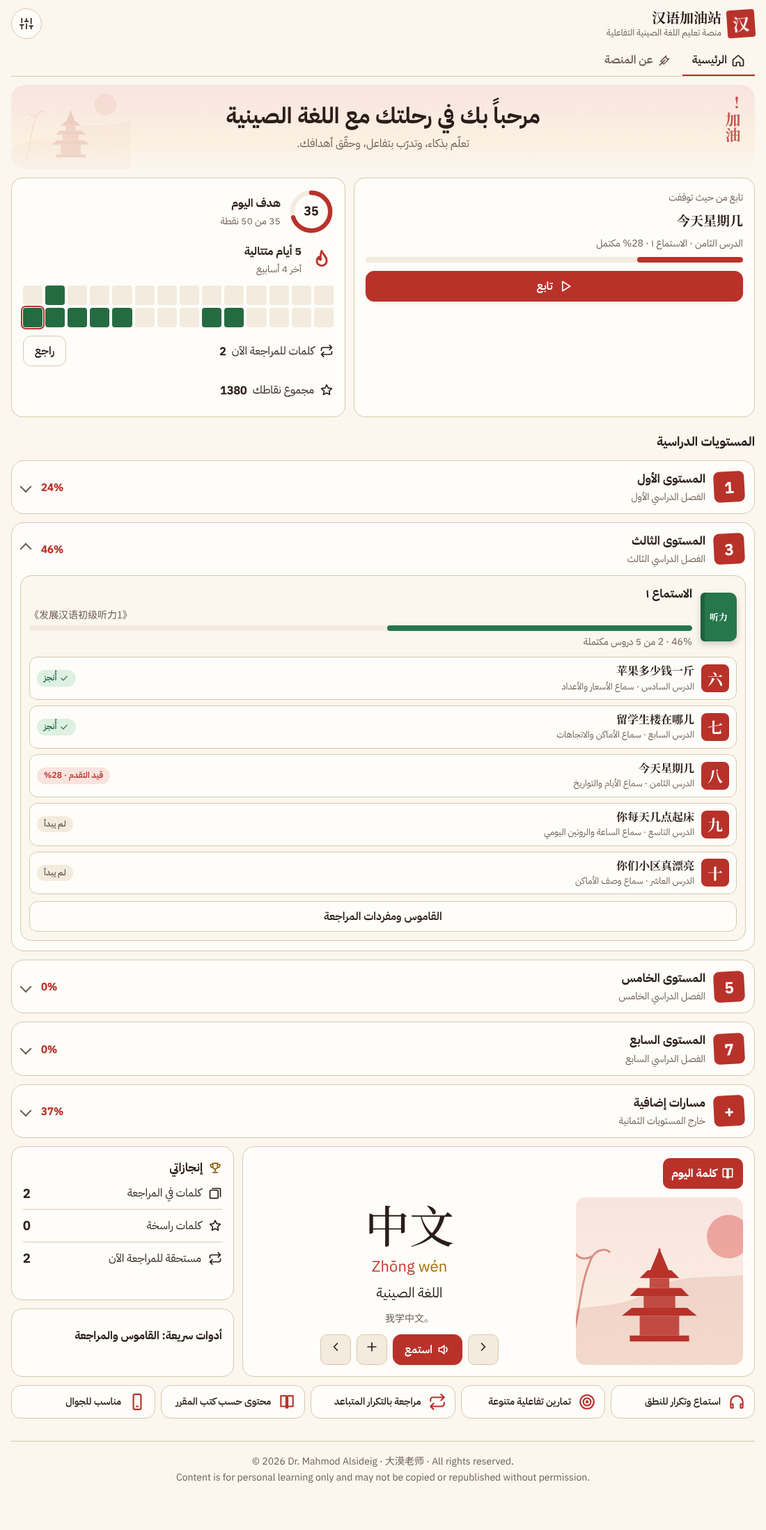
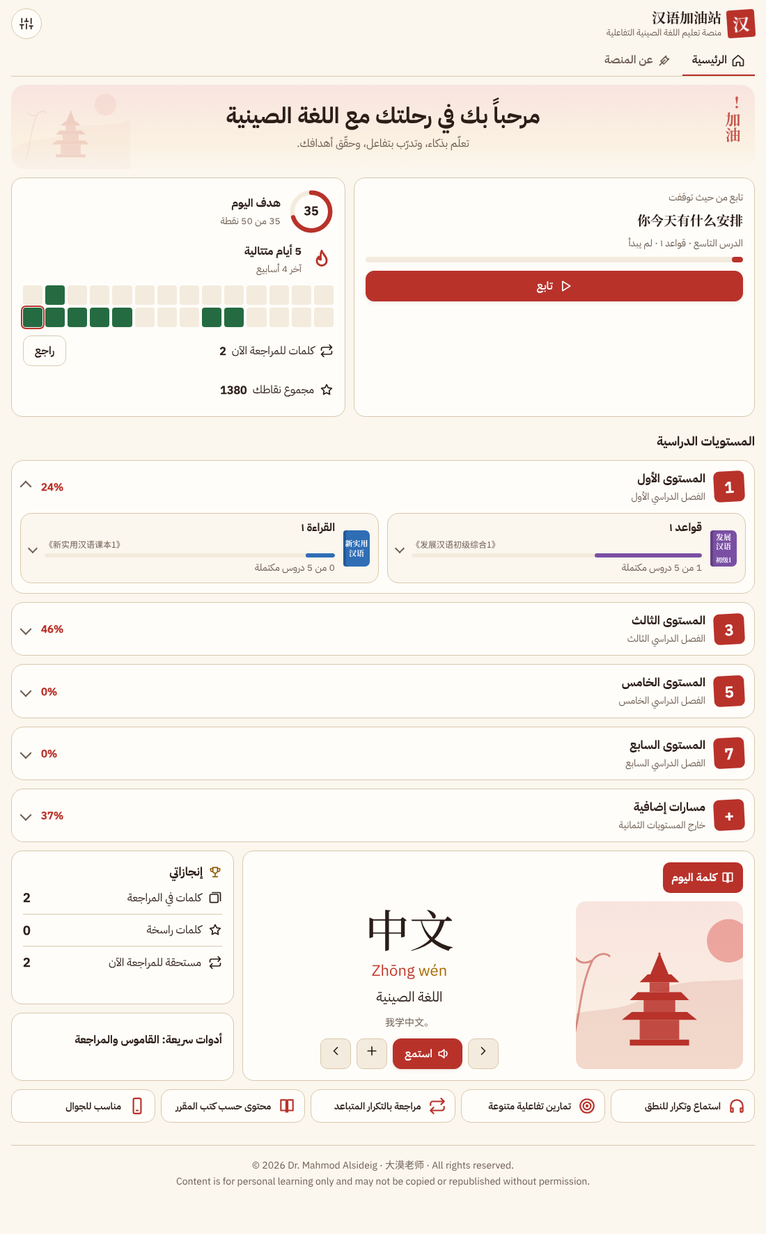
Hub density: lessons are shown only inside an expanded course (three tiers, accordion)
Level (open only for the last lesson's level) shows only compact course cards; tapping a course expands its lessons inline and closes
the other course of the same level; lesson rows are one line (number, Chinese title, ellipsized Arabic subtitle, state badge).
The open course is kept for the visit only (nothing new in storage). Continue card, no locking, URLs and keys unchanged.
t10.js: tier tests (no lesson visible on a fresh visit, accordion per level, compact rows, continue card on top); t8.js adapted;
hubt/tg.js and th.js re-run. New 360px screenshots.

Claude-Session: https://claude.ai/code/session_01Y3ehy95n2BwDU97HGsHF3Y

diff --git a/index.html b/index.html
@@ -109,18 +109,26 @@ details.lvl[open]>summary::after{transform:rotate(-135deg)}
 .lvt{flex:1;display:grid}.lvt b{font-size:17px}.pc{font:700 15px var(--font-py);color:var(--accent)}
 .lvb{display:grid;gap:12px;padding:0 12px 14px}
 @media(min-width:900px){.lvb{grid-template-columns:repeat(auto-fit,minmax(340px,1fr))}}
-.cb{display:grid;gap:10px;background:var(--bg);border:1px solid var(--line);border-radius:16px;padding:12px}
-.cb .r1{display:flex;gap:12px;align-items:center}.cb .ci{display:grid;gap:4px;flex:1;min-width:0}.cb .ci b{font-size:17px}
-.cb .cover{width:52px;height:70px;font-size:13px}
+.cb{background:var(--bg);border:1px solid var(--line);border-radius:16px;overflow:hidden}
+.cb.open{border-color:var(--accent)}
+.cbh{display:flex;gap:12px;align-items:center;width:100%;min-height:72px;padding:10px 12px;background:none;border:0;text-align:start;cursor:pointer}
+.cbh .cover{flex:none;width:38px;height:52px;font-size:11px;border-radius:4px 7px 7px 4px;box-shadow:inset 4px 0 0 rgba(0,0,0,.18)}
+.cbh .ci{display:grid;gap:3px;flex:1;min-width:0}.cbh .ci b{font-size:16px;line-height:1.35}
+.cbh .bk{overflow:hidden;text-overflow:ellipsis;white-space:nowrap;max-width:100%;font-size:12px}
+.cbh .bar{display:block;height:6px}
+.chev{flex:none;width:10px;height:10px;border:solid var(--muted);border-width:0 2px 2px 0;transform:rotate(45deg);transition:transform .15s}
+.cb.open .chev{transform:rotate(-135deg)}
+.cbody{display:grid;gap:8px;padding:0 10px 12px}
 .lrows{display:grid;gap:8px}
-.lrow{display:grid;grid-template-columns:40px 1fr auto;gap:10px;align-items:center;text-decoration:none;color:inherit;background:var(--surface);border:1px solid var(--line);border-radius:12px;padding:8px 10px;min-height:56px}
-.lrow .n{width:40px;height:40px;border-radius:8px;background:var(--seal);color:var(--seal-fg);display:grid;place-items:center;font:700 22px var(--font-han)}
-.lrow .lt{display:grid;min-width:0;justify-items:start}.lrow .lt b{font-size:16px;line-height:1.4}.lrow .lt .mut{font-size:13px}
+.lrow{display:grid;grid-template-columns:34px 1fr auto;gap:10px;align-items:center;text-decoration:none;color:inherit;background:var(--surface);border:1px solid var(--line);border-radius:12px;padding:6px 10px;min-height:52px}
+.lrow .n{width:34px;height:34px;border-radius:7px;background:var(--seal);color:var(--seal-fg);display:grid;place-items:center;font:700 19px var(--font-han)}
+.lrow .lt{display:grid;min-width:0;justify-items:start}
+.lrow .lt b{display:block;max-width:100%;overflow:hidden;text-overflow:ellipsis;white-space:nowrap;font-size:15px;line-height:1.4}
+.lrow .lt .sub{display:block;max-width:100%;overflow:hidden;text-overflow:ellipsis;white-space:nowrap;font-size:12px;color:var(--muted)}
 .st{display:inline-flex;align-items:center;gap:4px;font-size:12px;font-weight:600;border-radius:999px;padding:2px 10px;white-space:nowrap;background:var(--surface2);color:var(--muted)}
 .st .ic{width:14px;height:14px}.st.prog{background:var(--accent-soft);color:var(--accent)}.st.done{background:var(--good-soft);color:var(--good)}
 .course .st{margin-top:4px}
 details.tools>summary{cursor:pointer;min-height:44px;display:flex;align-items:center}
-@media(max-width:420px){.lrow{grid-template-columns:36px 1fr}.lrow .st{grid-column:2;justify-self:start}.lrow .n{width:36px;height:36px;font-size:20px}}
 </style>
 <link rel="stylesheet" href="zh-ui.css">
 <script src="zh-ui.js" defer></script>
@@ -210,7 +218,7 @@ function lessonProg(l){
   return {pct:pct,st:pct>=DONE_AT?'done':(started?'prog':'new'),xp:xp};
 }
 function avgPct(ls){if(!ls.length)return 0;var t=0;ls.forEach(function(l){t+=lessonProg(l).pct});return Math.round(t/ls.length)}
-function badge(p){return p.st==='done'?'<span class="st done">'+ic('check')+'أُنجز</span>':p.st==='prog'?'<span class="st prog">قيد التقدم · '+p.pct+'%</span>':'<span class="st new">لم يبدأ</span>'}
+function badge(p,compact){return p.st==='done'?'<span class="st done">'+ic('check')+'أُنجز</span>':p.st==='prog'?'<span class="st prog"'+(compact?' title="قيد التقدم" aria-label="قيد التقدم '+p.pct+'%"':'')+'>'+(compact?p.pct+'%':'قيد التقدم · '+p.pct+'%')+'</span>':'<span class="st new">لم يبدأ</span>'}
 function totalXp(){var t=0,seen={};Object.keys(LB).forEach(function(id){LB[id].forEach(function(l){if(!seen[l.key]){seen[l.key]=1;t+=lessonProg(l).xp}})});return t}
 function findLesson(file){var order=Object.keys(LB);for(var i=0;i<order.length;i++){var ls=LB[order[i]];for(var j=0;j<ls.length;j++)if(ls[j].url===file)return {c:order[i],l:ls[j],i:j}}return null}
 /* the "continue" target: the last lesson opened (zh-hub-v1.lastLesson, written by the lessons and by the hub), shared lessons go to the
@@ -239,18 +247,23 @@ function dashboard(){
    '<div class="dg2"><span>'+ic('star')+'مجموع نقاطك <b>'+totalXp()+'</b></span></div></div></section>';
 }
 function tparts(t){var k=t.indexOf(' · ');return k<0?{ar:'',zh:t}:{ar:t.slice(0,k),zh:t.slice(k+3)}}
-function lrow(id,l,i){var p=lessonProg(l),t=tparts(l.t);return '<a class="lrow" href="'+l.url+'" target="_blank" rel="noopener" data-lesson="'+((id==='gram'||id==='fl')?i:-1)+'" data-file="'+l.url+'"><span class="n">'+l.n+'</span><span class="lt"><b class="han ltr" lang="zh-CN">'+esc(t.zh)+'</b><span class="mut">'+t.ar+' · '+l.d+'</span></span>'+badge(p)+'</a>'}
-function courseBlock(id){
-  var m=MATS.filter(function(x){return x.id===id})[0],ls=LB[id],pct=avgPct(ls),col='var(--c'+m.color+')',dn=ls.filter(function(l){return lessonProg(l).st==='done'}).length;
-  return '<div class="cb" data-course="'+id+'"><div class="r1"><div class="cover han" lang="zh-CN" style="background:'+col+'">'+m.cv+'</div><div class="ci"><b>'+m.t+'</b><span class="mut han" dir="ltr">'+m.s+'</span>'+
-   '<div class="bar"><i style="width:'+Math.max(pct,3)+'%;background:'+col+'"></i></div><span class="mut">'+pct+'% · '+dn+' من '+ls.length+' دروس مكتملة</span></div></div>'+
-   '<div class="lrows">'+ls.map(function(l,i){return lrow(id,l,i)}).join('')+'</div>'+
-   '<button class="btn" data-crs="'+id+'">القاموس ومفردات المراجعة</button></div>';
+/* Three tiers, one tap each: level (only course cards) -> course card (collapsed; opening it shows its lessons, one course open per level)
+   -> lesson rows (number, Chinese title, one-line Arabic subtitle, state badge). Which course is open is remembered for this visit only. */
+var OPENC={};
+function lrow(id,l,i){var p=lessonProg(l),t=tparts(l.t);return '<a class="lrow" href="'+l.url+'" target="_blank" rel="noopener" data-lesson="'+((id==='gram'||id==='fl')?i:-1)+'" data-file="'+l.url+'"><span class="n">'+l.n+'</span><span class="lt"><b class="han ltr" lang="zh-CN">'+esc(t.zh)+'</b><span class="sub">'+l.d+'</span></span>'+badge(p,true)+'</a>'}
+function courseBlock(id,lk){
+  var m=MATS.filter(function(x){return x.id===id})[0],ls=LB[id],pct=avgPct(ls),col='var(--c'+m.color+')',dn=ls.filter(function(l){return lessonProg(l).st==='done'}).length,open=OPENC[lk]===id;
+  return '<div class="cb'+(open?' open':'')+'" data-course="'+id+'">'+
+   '<button class="cbh" data-cacc="'+id+'" data-lk="'+lk+'" aria-expanded="'+open+'" aria-controls="ls-'+id+'"><span class="cover han" lang="zh-CN" style="background:'+col+'">'+m.cv+'</span>'+
+   '<span class="ci"><b>'+m.t+'</b><span class="mut han ltr bk">'+m.s+'</span><span class="bar" role="progressbar" aria-valuemin="0" aria-valuemax="100" aria-valuenow="'+pct+'" aria-label="'+m.t+'"><i style="width:'+Math.max(pct,3)+'%;background:'+col+'"></i></span>'+
+   '<span class="mut">'+dn+' من '+ls.length+' دروس مكتملة</span></span><span class="chev" aria-hidden="true"></span></button>'+
+   '<div class="cbody" id="ls-'+id+'"'+(open?'':' hidden')+'><div class="lrows">'+ls.map(function(l,i){return lrow(id,l,i)}).join('')+'</div>'+
+   '<button class="btn" data-crs="'+id+'">القاموس ومفردات المراجعة</button></div></div>';
 }
 function levelHtml(lv,open){
   var all=[];lv.courses.forEach(function(c){all=all.concat(LB[c])});
   return '<details class="lvl" data-lv="'+lv.n+'"'+(open?' open':'')+'><summary><span class="lvn" aria-hidden="true">'+lv.n+'</span><span class="lvt"><b>'+lv.title+'</b><span class="mut">'+lv.sub+'</span></span><span class="pc">'+avgPct(all)+'%</span></summary>'+
-   '<div class="lvb">'+lv.courses.map(courseBlock).join('')+'</div></details>';
+   '<div class="lvb">'+lv.courses.map(function(c){return courseBlock(c,String(lv.n))}).join('')+'</div></details>';
 }
 function home(){
   if(crs){
@@ -266,7 +279,7 @@ function home(){
   if(!openN&&!extraOpen)openN=LV.levels[0].n;
   var lvls=LV.levels.map(function(lv){return levelHtml(lv,OPEN['l'+lv.n]!=null?OPEN['l'+lv.n]:lv.n===openN)}).join('');
   var ex=LV.extra,eo=OPEN.extra!=null?OPEN.extra:extraOpen,eall=[];ex.courses.forEach(function(c){eall=eall.concat(LB[c])});
-  var extra='<details class="lvl extra" data-lv="extra"'+(eo?' open':'')+'><summary><span class="lvn" aria-hidden="true">+</span><span class="lvt"><b>'+ex.title+'</b><span class="mut">'+ex.sub+'</span></span><span class="pc">'+avgPct(eall)+'%</span></summary><div class="lvb">'+ex.courses.map(courseBlock).join('')+'</div></details>';
+  var extra='<details class="lvl extra" data-lv="extra"'+(eo?' open':'')+'><summary><span class="lvn" aria-hidden="true">+</span><span class="lvt"><b>'+ex.title+'</b><span class="mut">'+ex.sub+'</span></span><span class="pc">'+avgPct(eall)+'%</span></summary><div class="lvb">'+ex.courses.map(function(c){return courseBlock(c,'extra')}).join('')+'</div></details>';
   var tools=MATS.map(function(m){return '<button data-open="'+m.id+':dict">'+ic('book')+'قاموس '+m.t+'</button><button data-open="'+m.id+':rev">'+ic('repeat')+'مفردات '+m.t+'</button>'}).join('');
   return '<div class="banner"><svg class="bg" viewBox="0 0 240 170" preserveAspectRatio="xMinYMax meet">'+PAGODA.replace(/^<svg[^>]*>/,'').replace('</svg>','')+'</svg><div class="jy" aria-hidden="true">加油！</div><h2>مرحباً بك في رحلتك مع اللغة الصينية</h2><p>تعلّم بذكاء، وتدرّب بتفاعل، وحقّق أهدافك.</p></div>'+
   dashboard()+
@@ -317,8 +330,11 @@ function tea(){
  '<div class="card"><h3 style="font-size:17px">نصائح للتعلّم</h3><ul class="road"><li>🎧 استمع للجملة ثم كرّرها بصوت عالٍ.</li><li>✍ اكتب الحروف باليد في تبويب الكتابة.</li><li>🔁 تدرّب قليلاً كل يوم أفضل من كثير مرة واحدة.</li></ul></div>';
 }
 document.addEventListener('click',function(e){
- var t=e.target.closest('[data-wn],[data-wsay],[data-wadd],[data-lf],[data-open],[data-lesson],[data-crs],[data-go],[data-say],[data-sayx],[data-add],[data-addall],[data-flip],[data-sayc],[data-rate]');if(!t)return;var d=t.dataset;
+ var t=e.target.closest('[data-wn],[data-wsay],[data-wadd],[data-lf],[data-open],[data-lesson],[data-cacc],[data-crs],[data-go],[data-say],[data-sayx],[data-add],[data-addall],[data-flip],[data-sayc],[data-rate]');if(!t)return;var d=t.dataset;
  if(d.wn!=null){wi=(wotd(),(wi+ +d.wn+VOCAB.length)%VOCAB.length);render()}
+ else if(d.cacc){var lk=d.lk;OPENC[lk]=OPENC[lk]===d.cacc?null:d.cacc;
+  t.closest('.lvb').querySelectorAll('.cb').forEach(function(cb){var on=cb.dataset.course===OPENC[lk];cb.classList.toggle('open',on);cb.querySelector('.cbh').setAttribute('aria-expanded',on);cb.querySelector('.cbody').hidden=!on});
+  if(OPENC[lk])t.scrollIntoView({block:'nearest'})}
  else if(d.lesson!=null){if(+d.lesson>=0)S.last=+d.lesson;if(d.file)S.lastLesson=d.file;save();return}
  else if(d.crs!=null){crs=d.crs;lf=0;tab='home';render();window.scrollTo(0,0)}
  else if(d.go)go(d.go);

diff --git a/tools/hub.html b/tools/hub.html
@@ -108,18 +108,26 @@ details.lvl[open]>summary::after{transform:rotate(-135deg)}
 .lvt{flex:1;display:grid}.lvt b{font-size:17px}.pc{font:700 15px var(--font-py);color:var(--accent)}
 .lvb{display:grid;gap:12px;padding:0 12px 14px}
 @media(min-width:900px){.lvb{grid-template-columns:repeat(auto-fit,minmax(340px,1fr))}}
-.cb{display:grid;gap:10px;background:var(--bg);border:1px solid var(--line);border-radius:16px;padding:12px}
-.cb .r1{display:flex;gap:12px;align-items:center}.cb .ci{display:grid;gap:4px;flex:1;min-width:0}.cb .ci b{font-size:17px}
-.cb .cover{width:52px;height:70px;font-size:13px}
+.cb{background:var(--bg);border:1px solid var(--line);border-radius:16px;overflow:hidden}
+.cb.open{border-color:var(--accent)}
+.cbh{display:flex;gap:12px;align-items:center;width:100%;min-height:72px;padding:10px 12px;background:none;border:0;text-align:start;cursor:pointer}
+.cbh .cover{flex:none;width:38px;height:52px;font-size:11px;border-radius:4px 7px 7px 4px;box-shadow:inset 4px 0 0 rgba(0,0,0,.18)}
+.cbh .ci{display:grid;gap:3px;flex:1;min-width:0}.cbh .ci b{font-size:16px;line-height:1.35}
+.cbh .bk{overflow:hidden;text-overflow:ellipsis;white-space:nowrap;max-width:100%;font-size:12px}
+.cbh .bar{display:block;height:6px}
+.chev{flex:none;width:10px;height:10px;border:solid var(--muted);border-width:0 2px 2px 0;transform:rotate(45deg);transition:transform .15s}
+.cb.open .chev{transform:rotate(-135deg)}
+.cbody{display:grid;gap:8px;padding:0 10px 12px}
 .lrows{display:grid;gap:8px}
-.lrow{display:grid;grid-template-columns:40px 1fr auto;gap:10px;align-items:center;text-decoration:none;color:inherit;background:var(--surface);border:1px solid var(--line);border-radius:12px;padding:8px 10px;min-height:56px}
-.lrow .n{width:40px;height:40px;border-radius:8px;background:var(--seal);color:var(--seal-fg);display:grid;place-items:center;font:700 22px var(--font-han)}
-.lrow .lt{display:grid;min-width:0;justify-items:start}.lrow .lt b{font-size:16px;line-height:1.4}.lrow .lt .mut{font-size:13px}
+.lrow{display:grid;grid-template-columns:34px 1fr auto;gap:10px;align-items:center;text-decoration:none;color:inherit;background:var(--surface);border:1px solid var(--line);border-radius:12px;padding:6px 10px;min-height:52px}
+.lrow .n{width:34px;height:34px;border-radius:7px;background:var(--seal);color:var(--seal-fg);display:grid;place-items:center;font:700 19px var(--font-han)}
+.lrow .lt{display:grid;min-width:0;justify-items:start}
+.lrow .lt b{display:block;max-width:100%;overflow:hidden;text-overflow:ellipsis;white-space:nowrap;font-size:15px;line-height:1.4}
+.lrow .lt .sub{display:block;max-width:100%;overflow:hidden;text-overflow:ellipsis;white-space:nowrap;font-size:12px;color:var(--muted)}
 .st{display:inline-flex;align-items:center;gap:4px;font-size:12px;font-weight:600;border-radius:999px;padding:2px 10px;white-space:nowrap;background:var(--surface2);color:var(--muted)}
 .st .ic{width:14px;height:14px}.st.prog{background:var(--accent-soft);color:var(--accent)}.st.done{background:var(--good-soft);color:var(--good)}
 .course .st{margin-top:4px}
 details.tools>summary{cursor:pointer;min-height:44px;display:flex;align-items:center}
-@media(max-width:420px){.lrow{grid-template-columns:36px 1fr}.lrow .st{grid-column:2;justify-self:start}.lrow .n{width:36px;height:36px;font-size:20px}}
 </style>
 <link rel="stylesheet" href="zh-ui.css">
 <script src="zh-ui.js" defer></script>
@@ -208,7 +216,7 @@ function lessonProg(l){
   return {pct:pct,st:pct>=DONE_AT?'done':(started?'prog':'new'),xp:xp};
 }
 function avgPct(ls){if(!ls.length)return 0;var t=0;ls.forEach(function(l){t+=lessonProg(l).pct});return Math.round(t/ls.length)}
-function badge(p){return p.st==='done'?'<span class="st done">'+ic('check')+'أُنجز</span>':p.st==='prog'?'<span class="st prog">قيد التقدم · '+p.pct+'%</span>':'<span class="st new">لم يبدأ</span>'}
+function badge(p,compact){return p.st==='done'?'<span class="st done">'+ic('check')+'أُنجز</span>':p.st==='prog'?'<span class="st prog"'+(compact?' title="قيد التقدم" aria-label="قيد التقدم '+p.pct+'%"':'')+'>'+(compact?p.pct+'%':'قيد التقدم · '+p.pct+'%')+'</span>':'<span class="st new">لم يبدأ</span>'}
 function totalXp(){var t=0,seen={};Object.keys(LB).forEach(function(id){LB[id].forEach(function(l){if(!seen[l.key]){seen[l.key]=1;t+=lessonProg(l).xp}})});return t}
 function findLesson(file){var order=Object.keys(LB);for(var i=0;i<order.length;i++){var ls=LB[order[i]];for(var j=0;j<ls.length;j++)if(ls[j].url===file)return {c:order[i],l:ls[j],i:j}}return null}
 /* the "continue" target: the last lesson opened (zh-hub-v1.lastLesson, written by the lessons and by the hub), shared lessons go to the
@@ -237,18 +245,23 @@ function dashboard(){
    '<div class="dg2"><span>'+ic('star')+'مجموع نقاطك <b>'+totalXp()+'</b></span></div></div></section>';
 }
 function tparts(t){var k=t.indexOf(' · ');return k<0?{ar:'',zh:t}:{ar:t.slice(0,k),zh:t.slice(k+3)}}
-function lrow(id,l,i){var p=lessonProg(l),t=tparts(l.t);return '<a class="lrow" href="'+l.url+'" target="_blank" rel="noopener" data-lesson="'+((id==='gram'||id==='fl')?i:-1)+'" data-file="'+l.url+'"><span class="n">'+l.n+'</span><span class="lt"><b class="han ltr" lang="zh-CN">'+esc(t.zh)+'</b><span class="mut">'+t.ar+' · '+l.d+'</span></span>'+badge(p)+'</a>'}
-function courseBlock(id){
-  var m=MATS.filter(function(x){return x.id===id})[0],ls=LB[id],pct=avgPct(ls),col='var(--c'+m.color+')',dn=ls.filter(function(l){return lessonProg(l).st==='done'}).length;
-  return '<div class="cb" data-course="'+id+'"><div class="r1"><div class="cover han" lang="zh-CN" style="background:'+col+'">'+m.cv+'</div><div class="ci"><b>'+m.t+'</b><span class="mut han" dir="ltr">'+m.s+'</span>'+
-   '<div class="bar"><i style="width:'+Math.max(pct,3)+'%;background:'+col+'"></i></div><span class="mut">'+pct+'% · '+dn+' من '+ls.length+' دروس مكتملة</span></div></div>'+
-   '<div class="lrows">'+ls.map(function(l,i){return lrow(id,l,i)}).join('')+'</div>'+
-   '<button class="btn" data-crs="'+id+'">القاموس ومفردات المراجعة</button></div>';
+/* Three tiers, one tap each: level (only course cards) -> course card (collapsed; opening it shows its lessons, one course open per level)
+   -> lesson rows (number, Chinese title, one-line Arabic subtitle, state badge). Which course is open is remembered for this visit only. */
+var OPENC={};
+function lrow(id,l,i){var p=lessonProg(l),t=tparts(l.t);return '<a class="lrow" href="'+l.url+'" target="_blank" rel="noopener" data-lesson="'+((id==='gram'||id==='fl')?i:-1)+'" data-file="'+l.url+'"><span class="n">'+l.n+'</span><span class="lt"><b class="han ltr" lang="zh-CN">'+esc(t.zh)+'</b><span class="sub">'+l.d+'</span></span>'+badge(p,true)+'</a>'}
+function courseBlock(id,lk){
+  var m=MATS.filter(function(x){return x.id===id})[0],ls=LB[id],pct=avgPct(ls),col='var(--c'+m.color+')',dn=ls.filter(function(l){return lessonProg(l).st==='done'}).length,open=OPENC[lk]===id;
+  return '<div class="cb'+(open?' open':'')+'" data-course="'+id+'">'+
+   '<button class="cbh" data-cacc="'+id+'" data-lk="'+lk+'" aria-expanded="'+open+'" aria-controls="ls-'+id+'"><span class="cover han" lang="zh-CN" style="background:'+col+'">'+m.cv+'</span>'+
+   '<span class="ci"><b>'+m.t+'</b><span class="mut han ltr bk">'+m.s+'</span><span class="bar" role="progressbar" aria-valuemin="0" aria-valuemax="100" aria-valuenow="'+pct+'" aria-label="'+m.t+'"><i style="width:'+Math.max(pct,3)+'%;background:'+col+'"></i></span>'+
+   '<span class="mut">'+dn+' من '+ls.length+' دروس مكتملة</span></span><span class="chev" aria-hidden="true"></span></button>'+
+   '<div class="cbody" id="ls-'+id+'"'+(open?'':' hidden')+'><div class="lrows">'+ls.map(function(l,i){return lrow(id,l,i)}).join('')+'</div>'+
+   '<button class="btn" data-crs="'+id+'">القاموس ومفردات المراجعة</button></div></div>';
 }
 function levelHtml(lv,open){
   var all=[];lv.courses.forEach(function(c){all=all.concat(LB[c])});
   return '<details class="lvl" data-lv="'+lv.n+'"'+(open?' open':'')+'><summary><span class="lvn" aria-hidden="true">'+lv.n+'</span><span class="lvt"><b>'+lv.title+'</b><span class="mut">'+lv.sub+'</span></span><span class="pc">'+avgPct(all)+'%</span></summary>'+
-   '<div class="lvb">'+lv.courses.map(courseBlock).join('')+'</div></details>';
+   '<div class="lvb">'+lv.courses.map(function(c){return courseBlock(c,String(lv.n))}).join('')+'</div></details>';
 }
 function home(){
   if(crs){
@@ -264,7 +277,7 @@ function home(){
   if(!openN&&!extraOpen)openN=LV.levels[0].n;
   var lvls=LV.levels.map(function(lv){return levelHtml(lv,OPEN['l'+lv.n]!=null?OPEN['l'+lv.n]:lv.n===openN)}).join('');
   var ex=LV.extra,eo=OPEN.extra!=null?OPEN.extra:extraOpen,eall=[];ex.courses.forEach(function(c){eall=eall.concat(LB[c])});
-  var extra='<details class="lvl extra" data-lv="extra"'+(eo?' open':'')+'><summary><span class="lvn" aria-hidden="true">+</span><span class="lvt"><b>'+ex.title+'</b><span class="mut">'+ex.sub+'</span></span><span class="pc">'+avgPct(eall)+'%</span></summary><div class="lvb">'+ex.courses.map(courseBlock).join('')+'</div></details>';
+  var extra='<details class="lvl extra" data-lv="extra"'+(eo?' open':'')+'><summary><span class="lvn" aria-hidden="true">+</span><span class="lvt"><b>'+ex.title+'</b><span class="mut">'+ex.sub+'</span></span><span class="pc">'+avgPct(eall)+'%</span></summary><div class="lvb">'+ex.courses.map(function(c){return courseBlock(c,'extra')}).join('')+'</div></details>';
   var tools=MATS.map(function(m){return '<button data-open="'+m.id+':dict">'+ic('book')+'قاموس '+m.t+'</button><button data-open="'+m.id+':rev">'+ic('repeat')+'مفردات '+m.t+'</button>'}).join('');
   return '<div class="banner"><svg class="bg" viewBox="0 0 240 170" preserveAspectRatio="xMinYMax meet">'+PAGODA.replace(/^<svg[^>]*>/,'').replace('</svg>','')+'</svg><div class="jy" aria-hidden="true">加油！</div><h2>مرحباً بك في رحلتك مع اللغة الصينية</h2><p>تعلّم بذكاء، وتدرّب بتفاعل، وحقّق أهدافك.</p></div>'+
   dashboard()+
@@ -315,8 +328,11 @@ function tea(){
  '<div class="card"><h3 style="font-size:17px">نصائح للتعلّم</h3><ul class="road"><li>🎧 استمع للجملة ثم كرّرها بصوت عالٍ.</li><li>✍ اكتب الحروف باليد في تبويب الكتابة.</li><li>🔁 تدرّب قليلاً كل يوم أفضل من كثير مرة واحدة.</li></ul></div>';
 }
 document.addEventListener('click',function(e){
- var t=e.target.closest('[data-wn],[data-wsay],[data-wadd],[data-lf],[data-open],[data-lesson],[data-crs],[data-go],[data-say],[data-sayx],[data-add],[data-addall],[data-flip],[data-sayc],[data-rate]');if(!t)return;var d=t.dataset;
+ var t=e.target.closest('[data-wn],[data-wsay],[data-wadd],[data-lf],[data-open],[data-lesson],[data-cacc],[data-crs],[data-go],[data-say],[data-sayx],[data-add],[data-addall],[data-flip],[data-sayc],[data-rate]');if(!t)return;var d=t.dataset;
  if(d.wn!=null){wi=(wotd(),(wi+ +d.wn+VOCAB.length)%VOCAB.length);render()}
+ else if(d.cacc){var lk=d.lk;OPENC[lk]=OPENC[lk]===d.cacc?null:d.cacc;
+  t.closest('.lvb').querySelectorAll('.cb').forEach(function(cb){var on=cb.dataset.course===OPENC[lk];cb.classList.toggle('open',on);cb.querySelector('.cbh').setAttribute('aria-expanded',on);cb.querySelector('.cbody').hidden=!on});
+  if(OPENC[lk])t.scrollIntoView({block:'nearest'})}
  else if(d.lesson!=null){if(+d.lesson>=0)S.last=+d.lesson;if(d.file)S.lastLesson=d.file;save();return}
  else if(d.crs!=null){crs=d.crs;lf=0;tab='home';render();window.scrollTo(0,0)}
  else if(d.go)go(d.go);

diff --git a/tools/lsn3/t10.js b/tools/lsn3/t10.js
@@ -33,13 +33,39 @@ const links=await p.$$eval('.lrow',e=>e.map(x=>x.getAttribute('href')));
 ok('every lesson of every course is linked (Foreign Language repeats the Grammar lessons) and old URLs are unchanged',new Set(links).size===allFiles.length&&allFiles.every(f=>links.includes(f))&&links.length===allFiles.length+LV.courses.gram.lessons.length,links.length);
 ok('NO locking, no "coming soon", no placeholder tiles, nothing disabled',(await p.$$eval('button[disabled],.soon,.lock,[aria-disabled=true]',e=>e.length))===0&&!/قريباً|قريبا/.test(await p.$eval('#main',e=>e.innerText)));
 ok('only the first level is open for a visitor with no history',JSON.stringify(await openLv(p))===JSON.stringify([String(LV.levels[0].n)]));
-await p.click('details.lvl[data-lv="5"] summary');ok('a closed level opens when tapped (all levels stay open to everybody)',(await openLv(p)).includes('5')&&await p.isVisible('details.lvl[data-lv="5"] .lrow'));
+await p.click('details.lvl[data-lv="5"] summary');ok('a closed level opens when tapped (all levels stay open to everybody)',(await openLv(p)).includes('5')&&await p.isVisible('details.lvl[data-lv="5"] .cbh'));
 await p.click('[data-go=tea]');await p.click('[data-go=home]');ok('the hand-opened level stays open after leaving the home tab and coming back',(await openLv(p)).includes('5'));
 await p.click('details.lvl[data-lv="5"] summary');ok('and it closes again',!(await openLv(p)).includes('5'));
 ok('no horizontal scrolling at 360px',await p.evaluate(()=>document.documentElement.scrollWidth<=document.documentElement.clientWidth));
 ok('quick dictionary/review tiles are collapsed by default and open on tap',await p.$eval('details.tools',e=>!e.open)&&(await p.click('details.tools summary'),await p.$eval('details.tools',e=>e.open)));
 ok('fresh dashboard: continue card offers the first lesson, daily ring 0, 28-day calendar, no streak',await p.$eval('.cont .go',e=>e.getAttribute('href'))===allFiles[0]&&/ابدأ/.test(await p.$eval('.cont .go',e=>e.textContent))&&await p.$eval('.ring .rtx',e=>e.textContent)==='0'&&(await p.$$('.cal .cd')).length===28&&/^0 /.test(await p.$$eval('.dgi',e=>e[1].innerText)));
 ok('every lesson shows a state badge, all "not started" for a fresh visitor',await p.$$eval('.lrow .st',e=>e.length>0&&e.every(x=>x.classList.contains('new'))));
+console.log('--- three tiers, one tap each: level (course cards only) -> course card (collapsed) -> lessons inside the open course only');
+const vis=sel=>p.$$eval(sel,e=>e.filter(x=>x.offsetParent!==null).length);
+ok('a fresh visit shows NO lesson row at all (levels and courses are collapsed or closed)',await vis('.lrow')===0);
+ok('the open level shows only course cards (compact buttons), every course collapsed',await p.$$eval('details.lvl[open] .lvb > *',e=>e.length>0&&e.every(x=>x.classList.contains('cb')&&!x.classList.contains('open')&&x.querySelector('.cbh').getAttribute('aria-expanded')==='false'))&&await vis('details.lvl[open] .cbh')===LV.levels[0].courses.length);
+ok('a course card holds a cover thumbnail, the Arabic name, the book title, ONE progress bar with "x من y دروس مكتملة" and a chevron',await p.$$eval('.cbh',e=>e.every(x=>x.querySelector('.cover')&&x.querySelector('.ci b')&&x.querySelector('.ci .bk')&&x.querySelectorAll('.bar').length===1&&/\d+ من \d+ دروس مكتملة/.test(x.textContent)&&x.querySelector('.chev'))));
+ok('course cards are compact (at most 100px high at 360px)',await p.$$eval('details.lvl[open] .cbh',e=>e.every(x=>x.getBoundingClientRect().height<=100)));
+const gramLessons=LV.courses.gram.lessons.length;
+await p.click('.cbh[data-cacc="gram"]');
+ok('tapping a course expands its lessons inline, and only that course\'s lessons are visible',await vis('.lrow')===gramLessons&&await p.$eval('.cbh[data-cacc="gram"]',e=>e.getAttribute('aria-expanded'))==='true'&&await p.$$eval('.cb.open .lrow',e=>e.length)===gramLessons);
+ok('lesson rows are compact: number badge, Chinese title, ONE-line Arabic subtitle with ellipsis, state badge, nothing else',await p.$$eval('.cb.open .lrow',e=>e.every(x=>{const ch=[...x.children].map(y=>y.className.split(' ')[0]);const sub=x.querySelector('.sub'),cs=getComputedStyle(sub),h=x.getBoundingClientRect().height;return ch.join()==='n,lt,st'&&x.querySelector('.lt').children.length===2&&cs.whiteSpace==='nowrap'&&cs.textOverflow==='ellipsis'&&sub.getBoundingClientRect().height<=20&&h<=60&&x.scrollWidth<=x.clientWidth+1})));
+ok('the lesson rows still link to the unchanged lesson files',JSON.stringify(await p.$$eval('.cb.open .lrow',e=>e.map(x=>x.getAttribute('href'))))===JSON.stringify(LV.courses.gram.lessons.map(l=>l.file)));
+await p.click('.cbh[data-cacc="prac"]');
+ok('accordion: opening another course of the same level closes the first (one lesson list visible at a time)',await p.$eval('.cbh[data-cacc="gram"]',e=>e.getAttribute('aria-expanded'))==='false'&&await p.$eval('.cbh[data-cacc="prac"]',e=>e.getAttribute('aria-expanded'))==='true'&&await vis('.lrow')===LV.courses.prac.lessons.length);
+await p.click('details.lvl[data-lv="3"] summary');await p.click('.cbh[data-cacc="lis"]');
+ok('the accordion works per level: a course open in another level stays open',await vis('.lrow')===LV.courses.prac.lessons.length+LV.courses.lis.lessons.length);
+await p.click('[data-go=tea]');await p.click('[data-go=home]');
+ok('which course is open is remembered while the student moves around the hub',await vis('.lrow')===LV.courses.prac.lessons.length+LV.courses.lis.lessons.length);
+await p.click('.cbh[data-cacc="prac"]');ok('tapping an open course closes it',await vis('.lrow')===LV.courses.lis.lessons.length);
+await p.click('.cbh[data-cacc="lis"]');
+ok('the dictionary/review button of a course is inside its expanded part only',await p.isVisible('.cb[data-course="gram"] [data-crs]')===false);
+await p.click('.cbh[data-cacc="gram"]');ok('...and appears once the course is open',await p.isVisible('.cb[data-course="gram"] [data-crs="gram"]'));
+await p.click('.cb[data-course="gram"] [data-crs="gram"]');ok('...opening the course page with its lessons, dictionary and review tabs',await p.$eval('.tab[aria-selected=true]',e=>/الدروس/.test(e.textContent))&&(await p.$$('a.course')).length===gramLessons);
+await p.click('[data-crs=""]');
+ok('the continue card stays on top of the hub and goes straight to a lesson (no level needs opening)',await p.evaluate(()=>{const c=document.querySelector('.cont'),l=document.querySelector('.lvls');return !!c.querySelector('a.go[href$=".html"]')&&!!(c.compareDocumentPosition(l)&Node.DOCUMENT_POSITION_FOLLOWING)}));
+const sk=await p.evaluate(()=>JSON.parse(localStorage.getItem('zh-hub-v1')||'{}'));
+ok('open/closed state of courses is not written to storage (courses always start collapsed on the next visit)',!('openCourse' in sk)&&!('oc' in sk)&&!JSON.stringify(sk).includes('cacc'));
 ok('no page errors',p.errs.length===0,JSON.stringify(p.errs));
 await c.close();
 
@@ -78,8 +104,8 @@ console.log('--- real completion % = the lesson page\'s own progress bar (22 les
 
 console.log('--- course and level percentages, badges in the page');
 {const {c,p}=await fresh();await hub(p);
- const v=await p.evaluate(()=>{var kn={};for(var i=0;i<18;i++)kn[i]=1;localStorage.setItem('noor-lis6-v1',JSON.stringify({xp:5,known:kn,heard:{0:1,1:1,2:1,3:1},best:{match:2,listen:2,meaning:2,tone:2}}));render();return [...document.querySelectorAll('details[data-lv="3"] .cb .ci .mut')].map(e=>e.textContent)});
- ok('one started lesson raises its course percentage (average over the course\'s lessons) and shows "in progress" in the page',/^[1-9]\d*%/.test(v[v.length-1])&&await p.$eval('details[data-lv="3"] .lrow .st.prog',e=>/قيد التقدم/.test(e.textContent)));
+ const v=await p.evaluate(()=>{var kn={};for(var i=0;i<18;i++)kn[i]=1;localStorage.setItem('noor-lis6-v1',JSON.stringify({xp:5,known:kn,heard:{0:1,1:1,2:1,3:1},best:{match:2,listen:2,meaning:2,tone:2}}));render();return +document.querySelector('details[data-lv="3"] .cb .bar').getAttribute('aria-valuenow')});
+ ok('one started lesson raises its course percentage (average over the course\'s lessons) and shows "in progress" in the page',v>=1&&await p.$eval('details[data-lv="3"] .lrow .st.prog',e=>/^\d+%$/.test(e.textContent)&&/قيد التقدم/.test(e.getAttribute('aria-label'))));
  ok('level percentage equals the average of its lessons',await p.evaluate(()=>{var lv=LV.levels[1],all=[];lv.courses.forEach(function(c){all=all.concat(LB[c])});return document.querySelector('details[data-lv="3"] .pc').textContent===avgPct(all)+'%'}));
  await c.close()}
 
@@ -118,7 +144,7 @@ console.log('--- migration: an OLD pre-populated state (before this phase)');
  await p.reload();await p.waitForTimeout(350);
  ok('the old state loads without errors; continue card follows the old S.last (lesson 9) and the old lastCourse (Foreign Language)',p.errs.length===0&&await p.$eval('.cont .go',e=>e.getAttribute('href'))==='lesson-9.html'&&/لغة أجنبية/.test(await p.$eval('.cont',e=>e.innerText)),JSON.stringify(p.errs));
  ok('the old lesson state still gives its progress (Lesson 9: some words, one activity) on the lesson row',await p.$eval('details[data-lv="1"] .lrow[href="lesson-9.html"] .st',e=>e.classList.contains('prog')));
- await p.click('[data-wadd]');await p.waitForTimeout(100);await p.click('.lrow[href="lesson-9.html"]').catch(()=>{});
+ await p.click('[data-wadd]');await p.waitForTimeout(100);await p.click('.cont .go');   /* the continue card goes straight to the lesson (new tab) and saves lastLesson */
  const after=await p.evaluate(()=>{const o={};for(let i=0;i<localStorage.length;i++){const k=localStorage.key(i);o[k]=localStorage.getItem(k)}return o});
  const st=JSON.parse(after['zh-hub-v1']);
  ok('after the hub saved, every old field is still there (dues, last, lastCourse, days) and the old review word is intact',!!st.dues.gram['好']&&st.last===3&&st.lastCourse==='fl'&&st.days.includes('2024-05-01')&&st.days.includes('2024-05-02'),JSON.stringify(st).slice(0,200));

diff --git a/tools/lsn3/t8.js b/tools/lsn3/t8.js
@@ -33,7 +33,8 @@ ok('opening lesson 9 stores S.last = 3 (lesson index) and lastCourse = gram',st3
 await p.click('[data-go=home]').catch(()=>{});await p.goto(R+'index.html');await p.waitForTimeout(400);
 ok('home "continue" chip still points at lesson 9',(await p.evaluate(()=>document.body.innerText)).indexOf('الدرس التاسع')>=0);await c.close();
 ({c,p}=await fresh());await p.goto(R+'index.html#fl');await p.waitForTimeout(300);
-await p.click('[data-crs=""]');if(!(await p.isVisible('[data-crs="prac"]')))await p.click('details.lvl:has([data-course="prac"]) summary');   /* levels are collapsible: open the one that holds the course, like a student */
+await p.click('[data-crs=""]');if(!(await p.isVisible('.cbh[data-cacc="prac"]')))await p.click('details.lvl:has([data-course="prac"]) summary');   /* levels are collapsible and a course card must be tapped before its lessons and buttons show: do it like a student */
+if(!(await p.isVisible('[data-crs="prac"]')))await p.click('.cbh[data-cacc="prac"]');
 await p.click('[data-crs="prac"]');await p.waitForTimeout(300);   // the hub reads the URL hash only at load: use its own buttons
 await p.goto(R+'lesson-9.html');await p.waitForTimeout(250);
 ok('last course was Reading (not Foreign Language): lesson 9 still goes back to Grammar',await back(p)==='index.html#gram');

diff --git a/tools/README.md b/tools/README.md
@@ -108,6 +108,7 @@ The hub (`index.html`, generated from `tools/hub.html`) shows **Level -> Course 
 - Course ids (`gram`, `fl`, `prac`, `lis`, `biz`, `cult`) and lesson storage keys are the ones the students' progress already uses; do not rename them.
 - `tools/lsn3/hubgen.py` (run by `rebuild_all.sh`) reads this file and measures each built lesson page (words, dialogue lines or topics, activity names) because the hub needs them for the completion percentage; the result is injected into the hub where the placeholder `%%LEVELS%%` stands in `tools/hub.html` (the tracked file keeps the placeholder; `index.html` has the data).
 - **No locking:** every level and lesson is open; levels are only collapsible. The level that holds the student's last lesson is open by default.
+- **Three tiers, one tap each:** (1) a level, when open, shows only its course cards; (2) a course card is compact (cover thumbnail, Arabic name, book title, one progress bar with "x من y دروس مكتملة", chevron) and starts collapsed; tapping it expands its lessons inline, and opening one course closes the others of the same level (accordion); (3) lessons appear only inside the open course, as one-line rows (number, Chinese title, Arabic subtitle with ellipsis, state badge; full wording stays on the lesson page and on the course page `index.html#gram` etc.). Which course is open is kept for the visit only (not written to storage), so every visit starts collapsed. The Continue card stays on top and links straight to the lesson.
 
 ### What the dashboard computes (all on the device, nothing is sent anywhere)
 - **Completion %** of a lesson = exactly the progress bar of the lesson page, `(known words / words + heard dialogue lines / lines (culture: topics seen / topics, max 1) + activities with a best result / activities) / 3`, read from the lesson's existing key. Course and level % = average over their lessons. Badges: *not started* (nothing recorded), *in progress*, *done* (at least `settings.done_at` %). `t10.js` compares the hub value with each lesson page's own `#gprog` bar for all 22 lessons in three states.
